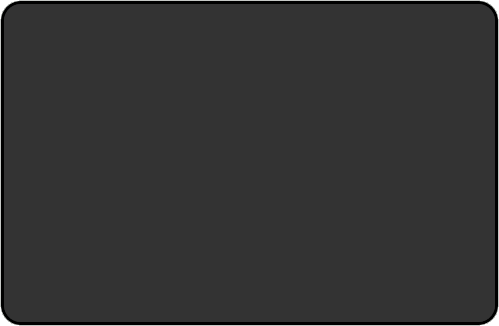
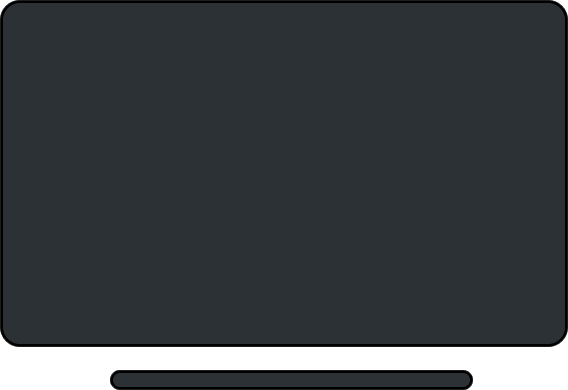
radio prettier

Changed region(s): [[0.0, 0.0, 1.0, 1.0]]

diff --git a/core/src/edu/cornell/gdiac/mangosnoops/hudentity/Radio.java b/core/src/edu/cornell/gdiac/mangosnoops/hudentity/Radio.java
@@ -14,7 +14,7 @@ import edu.cornell.gdiac.mangosnoops.Image;
 
 public class Radio {
     /** Rotation speed */
-    private static float SLIDER_LEFTMOSTPOS = 0.7561f;
+    private static float SLIDER_LEFTMOSTPOS = 0.6f;
     private static float SLIDER_RIGHTMOSTPOS = 0.9439f;
 
     private float slider_left;
@@ -59,10 +59,10 @@ public class Radio {
                  Texture nod,
                  ObjectMap<String,Genre> songs) {
         knob = new Image(0.75f, 0.225f, 0.07f, 0, tex, GameCanvas.TextureOrigin.MIDDLE);
-        slider = new Image(0.85f, 0.15f, 0.02f, 0.05f, s, GameCanvas.TextureOrigin.MIDDLE);
-        pointer = new Image(0.85f, 0.17f, 0.03f, 0.05f, p, GameCanvas.TextureOrigin.MIDDLE);
-        sound_on = new Image(0.91f, 0.3f, 0.045f, 0.05f, son, GameCanvas.TextureOrigin.MIDDLE);
-        sound_off = new Image(0.91f, 0.3f, 0.045f, 0.05f, soff, GameCanvas.TextureOrigin.MIDDLE);
+        slider = new Image(0.83f, 0.15f, 0.025f, 0.07f, s, GameCanvas.TextureOrigin.MIDDLE);
+        pointer = new Image(0.83f, 0.17f, 0.04f, 0.05f, p, GameCanvas.TextureOrigin.MIDDLE);
+        sound_on = new Image(0.9f, 0.3f, 0.045f, 0.04f, son, GameCanvas.TextureOrigin.MIDDLE);
+        sound_off = new Image(0.9f, 0.3f, 0.045f, 0.04f, soff, GameCanvas.TextureOrigin.MIDDLE);
         ned_like = new Image(0.79f, 0.3f, 0.05f, 0, nel, GameCanvas.TextureOrigin.MIDDLE);
         ned_dislike = new Image(0.79f, 0.3f, 0.07f, 0, ned, GameCanvas.TextureOrigin.MIDDLE);
         nosh_like = new Image(0.79f, 0.3f, 0.05f, 0, nol, GameCanvas.TextureOrigin.MIDDLE);
@@ -151,8 +151,8 @@ public class Radio {
         if(numStations != 0) {
             lastStation = currentStation;
             int stationNumber;
-            float oneUnit = (SLIDER_RIGHTMOSTPOS - SLIDER_LEFTMOSTPOS)/numStations;
-            stationNumber = (int)((pointer.getPosition().x-SLIDER_LEFTMOSTPOS)/oneUnit);
+            float oneUnit = (slider_right - slider_left)/numStations;
+            stationNumber = (int)((pointer.getPosition().x-slider_left)/oneUnit);
             if(stationNumber >= numStations) stationNumber = numStations-1;
             currentStation = stations.get(stationNumber);
         }
@@ -171,8 +171,8 @@ public class Radio {
      */
     public void update(Vector2 in, float dx) {
         setStation();
-        slider_left = 0.85f - 0.5f*slider.getTexture().getWidth()*0.02f*slider.getScreenHeight()/(slider.getTexture().getHeight()*slider.getScreenWidth());
-        slider_right = 0.85f + 0.5f*slider.getTexture().getWidth()*0.02f*slider.getScreenHeight()/(slider.getTexture().getHeight()*slider.getScreenWidth());
+        slider_left = 0.83f - 0.5f*slider.getTexture().getWidth()*0.025f*slider.getScreenHeight()/(slider.getTexture().getHeight()*slider.getScreenWidth());
+        slider_right = 0.83f + 0.5f*slider.getTexture().getWidth()*0.025f*slider.getScreenHeight()/(slider.getTexture().getHeight()*slider.getScreenWidth());
         if(in != null && (slider.inArea(in) || pointer.inArea(in))) {
             soundOn = true;
             playStatic = true;
@@ -224,8 +224,8 @@ public class Radio {
             }
         }
         displayFont.setColor(Color.FIREBRICK);
-        canvas.drawTextCenterOrigin(getCurrentStationName(), displayFont, 0.85f, 0.3f);
-        canvas.drawTextCenterOrigin("\n" + getCurrentStationSong(), displayFont, 0.85f, 0.28f);
+        canvas.drawTextCenterOriginShake(getCurrentStationName(), displayFont, 0.82f, 0.3f);
+        canvas.drawTextCenterOriginShake("\n" + getCurrentStationSong(), displayFont, 0.82f, 0.28f);
     }
 
     /**

diff --git a/core/src/edu/cornell/gdiac/mangosnoops/GameCanvas.java b/core/src/edu/cornell/gdiac/mangosnoops/GameCanvas.java
@@ -62,6 +62,7 @@ public class GameCanvas {
 	/** Cache object to unify everything under a master draw method */
 	private TextureRegion holder;
 
+	private Image masterImage;
 
 	// World drawing
 	PerspectiveCamera camera;
@@ -69,6 +70,8 @@ public class GameCanvas {
 	Array<Decal> roadDecals;
 
 	Viewport viewport;
+
+	private float shakeAmnt;
 
 	private float CAM_HEIGHT = 4.32f;
 	private Vector3 CAM_START_POS = new Vector3(0f, -10f, 4.32f);
@@ -107,6 +110,7 @@ public class GameCanvas {
 		//camera.rotate(150, 0, 1, 0);
 		camera.update();
 
+		masterImage = new Image();
 		batch = new DecalBatch(new CameraGroupStrategy(camera));
 
 		Gdx.gl20.glDepthMask(false);
@@ -561,6 +565,7 @@ public class GameCanvas {
 	}
 	/** With shake amount */
 	public void drawShake(Texture image, TextureOrigin o, float x, float y, float scale, boolean widthScale, float angle, Color c, float shakeAmnt) {
+		this.shakeAmnt = shakeAmnt;
 		Vector2 oxy = new Vector2();
 		switch(o) {
 			case MIDDLE:
@@ -859,6 +864,18 @@ public class GameCanvas {
     }
 
 	/**
+	 * Draws text on the screen.
+	 *
+	 * @param text The string to draw
+	 * @param font The font to use
+	 * @param x The x-coordinate of the lower-left corner
+	 * @param y The y-coordinate of the lower-left corner
+	 */
+	public void drawTextShake(String text, BitmapFont font, float x, float y) {
+		drawText(text, font, x, y+shakeAmnt);
+	}
+
+	/**
 	 * Draws text on the screen with a specific color.
 	 */
 	public void drawText(String text, BitmapFont font, float x, float y, Color color) {
@@ -904,6 +921,19 @@ public class GameCanvas {
 		float ypos = y*getHeight() + (layout.height) / 2.0f;
 		font.setColor(Color.WHITE);
 		font.draw(spriteBatch, layout, xpos, ypos);
+	}
+
+	public void drawTextCenterOriginShake(String text, BitmapFont font, float x, float y) {
+		if (!active) {
+			Gdx.app.error("GameCanvas", "Cannot draw without active begin()", new IllegalStateException());
+			return;
+		}
+
+		GlyphLayout layout = new GlyphLayout(font,text);
+		float xpos = x*getWidth() - (layout.width) / 2.0f;
+		float ypos = y*getHeight() + (layout.height) / 2.0f;
+		font.setColor(Color.WHITE);
+		font.draw(spriteBatch, layout, xpos, ypos + shakeAmnt);
 	}
 
 	/**

diff --git a/core/src/edu/cornell/gdiac/mangosnoops/GameMode.java b/core/src/edu/cornell/gdiac/mangosnoops/GameMode.java
@@ -741,7 +741,7 @@ public class GameMode implements Screen {
 					}
 					break;
 				case PLAY:
-					if(!exitModule & (indexLevel == 1 || indexLevel == 2 || indexLevel == 4 || indexLevel == 6)) {
+					if(!exitModule & (indexLevel == 1 || indexLevel == 2 || indexLevel == 3 || indexLevel == 4)) {
 						play(delta);
 						gameState = GameState.PAUSED;
 						exitModule = false;
@@ -751,7 +751,7 @@ public class GameMode implements Screen {
 					}
 					break;
 				case PAUSED:
-					if(!exitModule && (indexLevel == 1 || indexLevel == 2 || indexLevel == 4 || indexLevel == 6)) {
+					if(!exitModule && (indexLevel == 1 || indexLevel == 2 || indexLevel == 3 || indexLevel == 4)) {
 						exitModule = inputController.isMousePressed();
 						if(exitModule) gameState = GameState.PLAY;
 					} else {
@@ -999,7 +999,7 @@ public class GameMode implements Screen {
 			case PLAY:
 				break;
 			case PAUSED:
-				if(!exitModule && (indexLevel == 1 || indexLevel == 2 || indexLevel == 4 || indexLevel == 6)) {
+				if(!exitModule && (indexLevel == 1 || indexLevel == 2 || indexLevel == 3 || indexLevel == 4)) {
 					tutorialModule = new Image(0.5f, 0.5f, 0.7f, tipFlamingoTex, GameCanvas.TextureOrigin.MIDDLE);
 					switch(indexLevel) {
 						case 1:
@@ -1010,12 +1010,12 @@ public class GameMode implements Screen {
 							tutorialModule.setTexture(tipVisorTex);
 							tutorialModule.drawNoShake(canvas);
 							break;
-						case 4:
-							tutorialModule.setTexture(tipGrillTex);
+						case 3:
+							tutorialModule.setTexture(tipSatTex);
 							tutorialModule.drawNoShake(canvas);
 							break;
-						case 6:
-							tutorialModule.setTexture(tipSatTex);
+						case 4:
+							tutorialModule.setTexture(tipGrillTex);
 							tutorialModule.drawNoShake(canvas);
 							break;
 						default:

diff --git a/core/src/edu/cornell/gdiac/mangosnoops/hudentity/TouchScreen.java b/core/src/edu/cornell/gdiac/mangosnoops/hudentity/TouchScreen.java
@@ -10,15 +10,13 @@ public class TouchScreen {
 
     private Image offScreen;
     private Image onScreen;
-    private Image dvdSlot;
     private Radio radio;
     private DvdPlayer dvdPlayer;
     private GameCanvas c;
 
-    public TouchScreen(Radio r, DvdPlayer d, Texture ons, Texture ofs, Texture dvds) {
-        onScreen = new Image(0.85f, 0.24f, 0.26f, 0.05f, ons, GameCanvas.TextureOrigin.MIDDLE);
-        offScreen = new Image(0.85f, 0.24f, 0.26f, 0.05f, ofs, GameCanvas.TextureOrigin.MIDDLE);
-        dvdSlot = new Image(0.85f, 0.07f, 0.01f,  0.05f, dvds, GameCanvas.TextureOrigin.MIDDLE);
+    public TouchScreen(Radio r, DvdPlayer d, Texture ons, Texture ofs) {
+        onScreen = new Image(0.83f, 0.22f, 0.33f, 0.05f, ons, GameCanvas.TextureOrigin.MIDDLE);
+        offScreen = new Image(0.83f, 0.22f, 0.33f, 0.05f, ofs, GameCanvas.TextureOrigin.MIDDLE);
         radio = r;
         dvdPlayer = d;
     }
@@ -28,7 +26,7 @@ public class TouchScreen {
     public DvdPlayer getDvdPlayer() { return dvdPlayer; }
 
     public boolean inDvdSlot(Vector2 p) {
-        return dvdSlot.inArea(p) || offScreen.inArea(p);
+        return offScreen.inArea(p);
     }
 
     public void update(Vector2 p, float dx) {
@@ -42,7 +40,6 @@ public class TouchScreen {
     public void draw(GameCanvas canvas, BitmapFont displayFont) {
         c = canvas;
         onScreen.draw(canvas);
-        dvdSlot.draw(canvas);
         //Draw screens
         if(dvdPlayer.isPlayingDvd()) {
             dvdPlayer.draw(canvas, displayFont);

diff --git a/core/src/edu/cornell/gdiac/mangosnoops/GameplayController.java b/core/src/edu/cornell/gdiac/mangosnoops/GameplayController.java
@@ -858,7 +858,7 @@ public class GameplayController {
 				radioSoundOff, radioNedLike, radioNedDislike, radioNoshLike,
 				radioNoshDislike, songs);
 		dvdPlayer = new DvdPlayer();
-		touchscreen = new TouchScreen(radio, dvdPlayer, onTouchscreen, offTouchscreen, dvdSlot);
+		touchscreen = new TouchScreen(radio, dvdPlayer, onTouchscreen, offTouchscreen);
 		masterShaker = new Image();
         sunShine = false;
 		yonda.getNosh().setChildFilmStrip(noshTexture, NOSH_FILMSTRIP_ROWS, NOSH_FILMSTRIP_COLS);

diff --git a/core/src/edu/cornell/gdiac/mangosnoops/Image.java b/core/src/edu/cornell/gdiac/mangosnoops/Image.java
@@ -199,6 +199,8 @@ public class Image {
         this.origin = i.origin;
     }
 
+    public static float getCurrentShakeAmount() { return currentShakeAmount; }
+
     public Texture getTexture() {return texture; }
 
     public static float getScreenWidth() {
